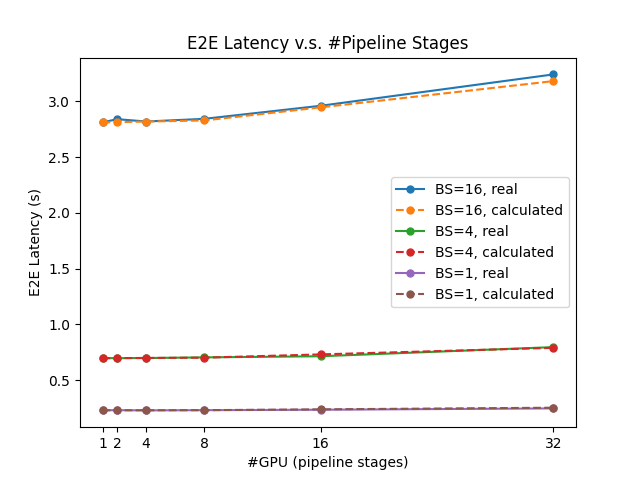
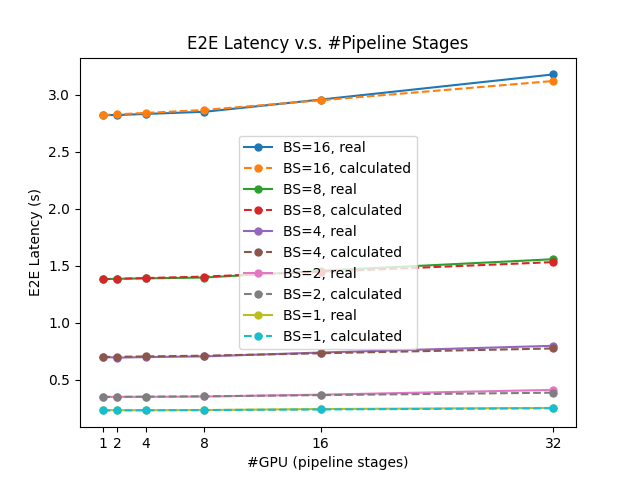
update pipeline latency plot scripts

diff --git a/simulator/scripts/pipeline_latency/plot.py b/simulator/scripts/pipeline_latency/plot.py
@@ -1,55 +1,66 @@
 import matplotlib.pyplot as plt
+from pprint import pprint
 
 gpu_nums = [1, 2, 4, 8, 16, 32]
 latencies = {
     "2.6B": {
-        1: [0.141, 0.142, 0.142, 0.142, 0.144, 0.145],
-        4: [0.366, 0.362, 0.36, 0.364, 0.378, 0.426],
-        16: [1.455, 1.443, 1.433, 1.454, 1.533, 1.746],
+        1: [0.145, 0.145, 0.144, 0.145, 0.146, 0.154],
+        2: [0.187, 0.184, 0.182, 0.185, 0.197, 0.213],
+        4: [0.368, 0.363, 0.362, 0.373, 0.383, 0.426],
+        8: [0.736, 0.733, 0.733, 0.745, 0.78, 0.85],
+        16: [1.433, 1.433, 1.444, 1.447, 1.542, 1.65]
     },
     "6.7B": {
-        1: [0.231, 0.232, 0.23, 0.232, 0.236, 0.248],
-        4: [0.698, 0.698, 0.699, 0.705, 0.715, 0.797],
-        16: [2.810, 2.839, 2.818, 2.842, 2.959, 3.24]
+        1: [0.233, 0.233, 0.232, 0.234, 0.243, 0.253],
+        2: [0.349, 0.35, 0.35, 0.353, 0.369, 0.411],
+        4: [0.7, 0.694, 0.699, 0.705, 0.739, 0.798],
+        8: [1.383, 1.386, 1.39, 1.397, 1.457, 1.558],
+        16: [2.823, 2.823, 2.833, 2.852, 2.959, 3.18]
     }
 }
 
 #       S    H     L    head   V
 # 2.6B  1024 2560  32   32   51200
 # 6.7B  1024 4096  32   32   51200
+
+CROSS_NODE_RAY_OVERHEAD = 0.010
 cross_node_commu_overhead = {
-    "2.6B": 0.0015625 * 2.5, # 1024 * 2560 * 2 / 1024 / 1024 / (25 / 8 * 1024)
-    "6.7B": 0.0025 * 2.5,    # 1024 * 4096 * 2 / 1024 / 1024 / (25 / 8 * 1024)
+    "2.6B": 0.0015625, # 1024 * 2560 * 2 / 1024 / 1024 / (25 / 8 * 1024) # 25Gbps
+    "6.7B": 0.0025,    # 1024 * 4096 * 2 / 1024 / 1024 / (25 / 8 * 1024) # 25Gbps
 }
 
 in_node_commu_overhead = {
-    "2.6B": 0.00009766, # 1024 * 2560 * 2 / 1024 / 1024 / (50 * 1024)
-    "6.7B": 0.00015625, # 1024 * 4096 * 2 / 1024 / 1024 / (50 * 1024)
+    # "2.6B": 0.00009766, # 1024 * 2560 * 2 / 1024 / 1024 / (50 * 1024) # 50GB/s
+    "2.6B": 0.0003, # profiling result
+    # "6.7B": 0.00015625, # 1024 * 4096 * 2 / 1024 / 1024 / (50 * 1024) # 50GB/s
+    "6.7B": 0.0004, # profiling result
 }
 
 
 predicted_latencies = {
     "2.6B": {
-        1: [0.141], 4: [0.366], 16: [1.455]
+        1: [0.145], 2: [0.187], 4: [0.366], 8: [0.736], 16: [1.433]
     },
     "6.7B": {
-        1: [0.231], 4: [0.698], 16: [2.810]
+        1: [0.231], 2: [0.349], 4: [0.7], 8: [1.383], 16: [2.823]
     }
 }
 
 for model_size in predicted_latencies:
-    for bs in [1, 4, 16]:
+    for bs in [1, 2, 4, 8, 16]:
         single = predicted_latencies[model_size][bs][0]
         predicted_latencies[model_size][bs].append(single + in_node_commu_overhead[model_size] * bs)
         predicted_latencies[model_size][bs].append(single + in_node_commu_overhead[model_size] * 3 * bs)
         predicted_latencies[model_size][bs].append(single + in_node_commu_overhead[model_size] * 7 * bs)
-        predicted_latencies[model_size][bs].append(single + (in_node_commu_overhead[model_size] * 14 + cross_node_commu_overhead[model_size]) * bs)
-        predicted_latencies[model_size][bs].append(single + (in_node_commu_overhead[model_size] * 28 + cross_node_commu_overhead[model_size] * 3) * bs)
+        predicted_latencies[model_size][bs].append(single + (in_node_commu_overhead[model_size] * 14 
+                                                             + cross_node_commu_overhead[model_size]) * bs)
+        predicted_latencies[model_size][bs].append(single + (in_node_commu_overhead[model_size] * 28
+                                                             + cross_node_commu_overhead[model_size] * 3) * bs)
 
-print(predicted_latencies)
+pprint(predicted_latencies)
 
 def plot(model_size):
-    bs_config = [1, 4, 16]
+    bs_config = [1, 2, 4, 8, 16]
     plt.figure()
     plt.title("E2E Latency v.s. #Pipeline Stages")
     plt.xlabel("#GPU (pipeline stages)")
